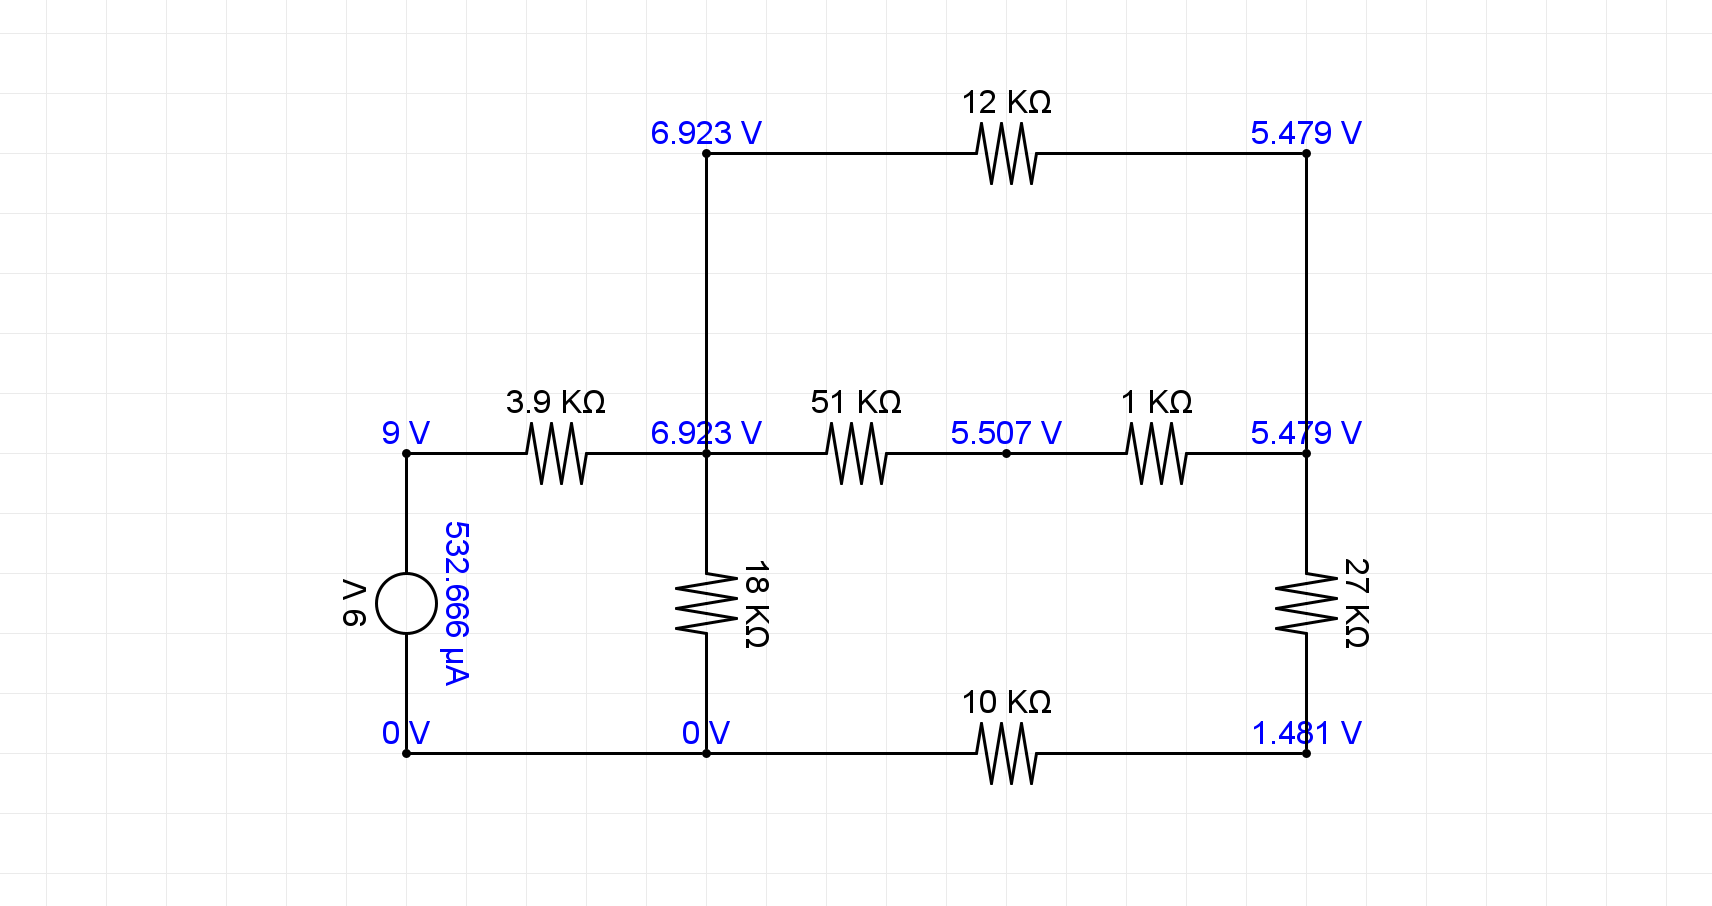
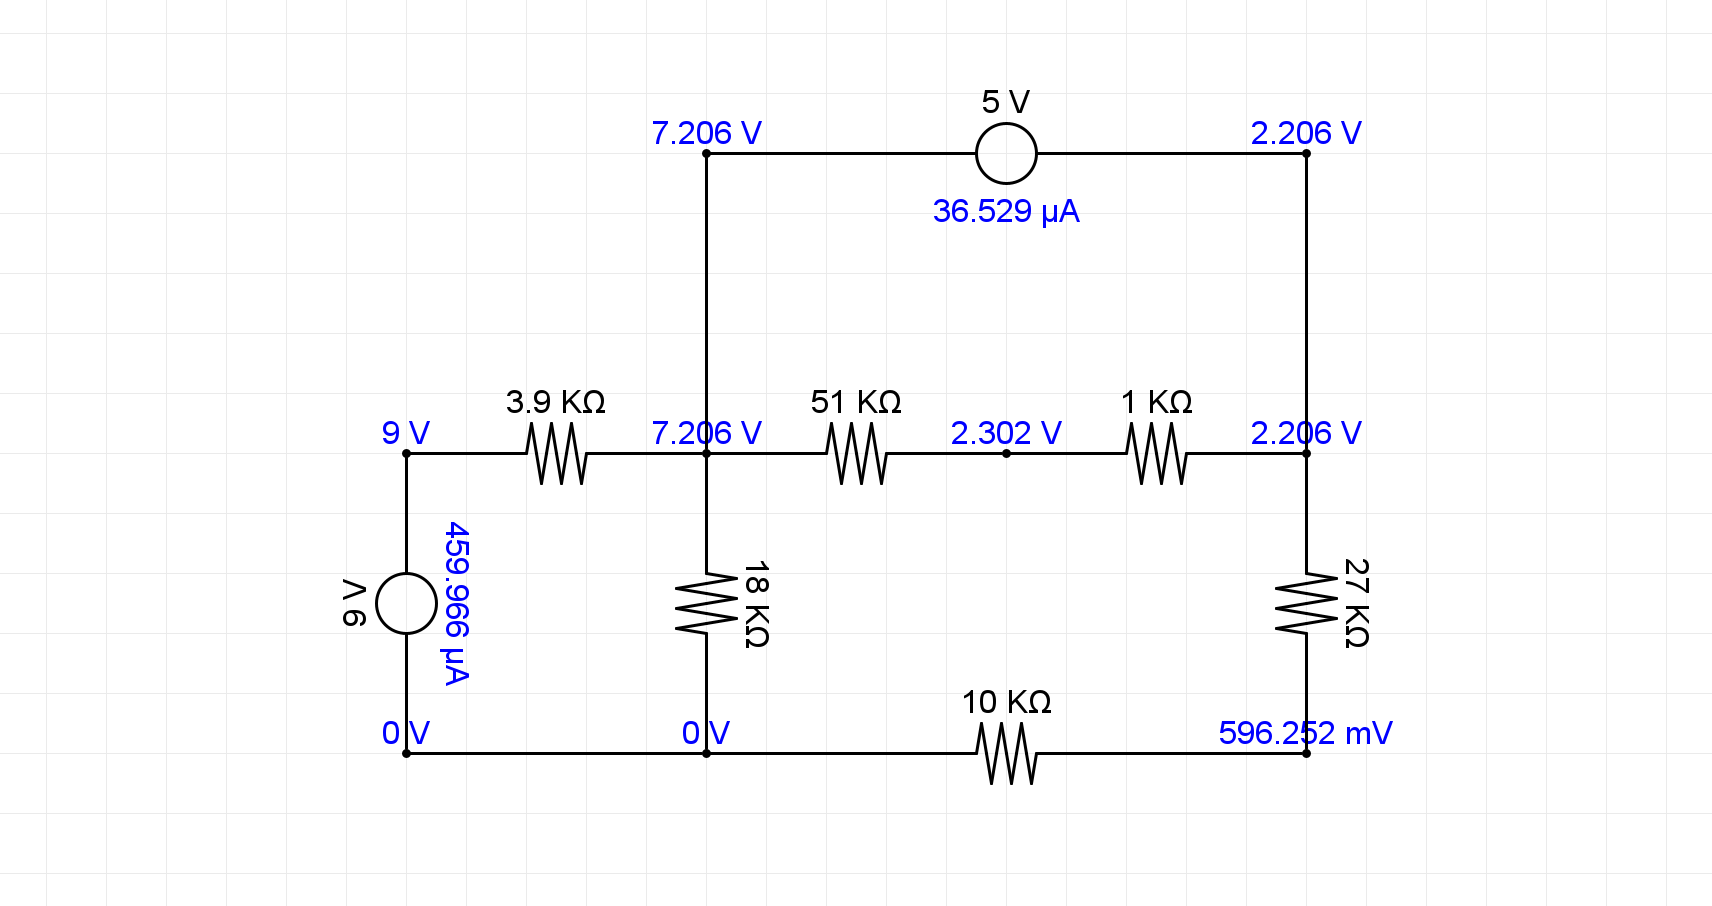
Implementar soporte para múltiples fuentes de voltaje independientes
- Eliminar corrienteTotal del circuito
- Asignar corrientes individuales a cada fuente tipo 'F'
- Ajustar asignación después de resolver MNA

diff --git a/src/PanelCircuito.java b/src/PanelCircuito.java
@@ -115,6 +115,11 @@ public class PanelCircuito extends JPanel {
         // Si ambos puntos coinciden, no dibujar nada
         if (inicioPlano.equals(finPlano)) return;
 
+        // Guardar el estado actual del contexto gráfico (color, trazo y transformación)
+        Color colorOriginal = g2.getColor();
+        Stroke trazoOriginal = g2.getStroke();
+        AffineTransform transformacionOriginal = g2.getTransform();
+
         // Suavizar líneas
         g2.setRenderingHint(RenderingHints.KEY_ANTIALIASING, RenderingHints.VALUE_ANTIALIAS_ON);
 
@@ -132,21 +137,28 @@ public class PanelCircuito extends JPanel {
         double xf = finPlano.x   - dx * factor;
         double yf = finPlano.y   - dy * factor;
 
-        // Guardar y aplicar nuevo estilo de trazo
-        Stroke trazoAntiguo = g2.getStroke();
+        // Aplicar nuevo estilo de trazo y color
         g2.setStroke(new BasicStroke(GROSOR_ARISTA, BasicStroke.CAP_ROUND, BasicStroke.JOIN_ROUND));
+        g2.setColor(Color.BLACK);
 
         // Dibujar la línea
         Line2D.Double linea = new Line2D.Double(xi, yi, xf, yf);
         g2.draw(linea);
 
-        // Restaurar trazo original
-        g2.setStroke(trazoAntiguo);
+        // Restaurar el estado original del contexto gráfico
+        g2.setColor(colorOriginal);
+        g2.setStroke(trazoOriginal);
+        g2.setTransform(transformacionOriginal);
     }
 
     public void dibujarResistencia(Graphics2D g2, Point inicioPlano, Point finPlano, ValorElectrico valorResistencia) {
         // Si ambos puntos coinciden, no hay resistencia que dibujar
         if (inicioPlano.equals(finPlano)) return;
+
+        // Guardar el estado actual del contexto gráfico (color, trazo y transformación)
+        Color colorOriginal = g2.getColor();
+        Stroke trazoOriginal = g2.getStroke();
+        AffineTransform transformacionOriginal = g2.getTransform();
 
         // Parámetros del zigzag
         final int ANCHO_ZIGZAG = 60;
@@ -177,11 +189,9 @@ public class PanelCircuito extends JPanel {
         double xg1 = xm + dx * factorGap;
         double yg1 = ym + dy * factorGap;
 
-        // Guardar estilo original
-        Stroke trazoOriginal = g2.getStroke();
-
         // Dibujar los brazos rectos de la resistencia
         g2.setStroke(new BasicStroke(GROSOR_ARISTA, BasicStroke.CAP_ROUND, BasicStroke.JOIN_ROUND));
+        g2.setColor(Color.BLACK);
         g2.draw(new Line2D.Double(x0, y0, xg0, yg0));
         g2.draw(new Line2D.Double(xg1, yg1, x1, y1));
 
@@ -213,12 +223,6 @@ public class PanelCircuito extends JPanel {
             haciaArriba = !haciaArriba;
         }
 
-        // Restaurar trazo para el texto
-        g2.setStroke(trazoOriginal);
-
-        // Guardar transformaciones y color original
-        AffineTransform atOriginal = g2.getTransform();
-
         // Dibujar etiqueta con valor formateado, centrada y rotada
         g2.translate(xm, ym);
         double angulo = Math.atan2(dy, dx);
@@ -231,15 +235,23 @@ public class PanelCircuito extends JPanel {
         int anchoTexto = fm.stringWidth(valorResistencia.toString());
 
         // Se dibuja un poco por encima del zigzag
+        g2.setColor(Color.BLACK);
         g2.drawString(valorResistencia.toString(), -anchoTexto / 2, -ALTURA_PICO - 10);
 
-        // Restaurar transformación y color
-        g2.setTransform(atOriginal);
+        // Restaurar el estado original del contexto gráfico
+        g2.setColor(colorOriginal);
+        g2.setStroke(trazoOriginal);
+        g2.setTransform(transformacionOriginal);
     }
 
-    public void dibujarFuente(Graphics2D g2, Point inicioPlano, Point finPlano, ValorElectrico valorFuente, ValorElectrico corrienteTotal) {
+    public void dibujarFuente(Graphics2D g2, Point inicioPlano, Point finPlano, ValorElectrico valorFuente, ValorElectrico corriente) {
         // Si ambos puntos coinciden, nada que dibujar
         if (inicioPlano.equals(finPlano)) return;
+
+        // Guardar el estado actual del contexto gráfico (color, trazo y transformación)
+        Color colorOriginal = g2.getColor();
+        Stroke trazoOriginal = g2.getStroke();
+        AffineTransform transformacionOriginal = g2.getTransform();
 
         // Activar antialiasing
         g2.setRenderingHint(RenderingHints.KEY_ANTIALIASING, RenderingHints.VALUE_ANTIALIAS_ON);
@@ -264,9 +276,6 @@ public class PanelCircuito extends JPanel {
         double xc = (x0 + x1) / 2.0;
         double yc = (y0 + y1) / 2.0;
 
-        // Guardar estilo de trazo original
-        Stroke trazoOriginal = g2.getStroke();
-
         // Dibujar líneas de conexión al círculo
         g2.setStroke(new BasicStroke(GROSOR_ARISTA, BasicStroke.CAP_ROUND, BasicStroke.JOIN_ROUND));
         g2.setColor(Color.BLACK);
@@ -283,12 +292,6 @@ public class PanelCircuito extends JPanel {
         double yCir = yc - radio;
         g2.draw(new Ellipse2D.Double(xCir, yCir, DIAMETRO_CIRCULO, DIAMETRO_CIRCULO));
 
-        // Restaurar trazo para no afectar otros dibujos
-        g2.setStroke(trazoOriginal);
-
-        // Guardar transformaciones y color original
-        AffineTransform atOriginal = g2.getTransform();
-
         // Preparar sistema de coordenadas rotado y centrado para etiquetas de valor y corriente
         g2.translate(xc, yc);
         double angulo = -Math.atan2(dy, dx);
@@ -302,20 +305,23 @@ public class PanelCircuito extends JPanel {
 
         // Dibujar texto valor fuente por encima del círculo
         int anchoTextoValor = fm.stringWidth(valorFuente.toString());
+        g2.setColor(Color.BLACK);
         g2.drawString(valorFuente.toString(), -anchoTextoValor / 2, (int)(-radio - 10));
 
         // Dibujar texto corriente total debajo del círculo
+        int anchoTextoCorriente = fm.stringWidth(corriente.toString());
         g2.setColor(Color.BLUE);
-        int anchoTextoCorriente = fm.stringWidth(corrienteTotal.toString());
         if (Math.abs(dy) < 1e-3) {
-            g2.drawString(corrienteTotal.toString(), -anchoTextoCorriente / 2, (int)(radio + altoTexto + 10));
+            g2.drawString(corriente.toString(), -anchoTextoCorriente / 2, (int)(radio + altoTexto + 10));
         } else {
             g2.rotate(Math.PI);
-            g2.drawString(corrienteTotal.toString(), -anchoTextoCorriente / 2, (int)(-radio - 10));
+            g2.drawString(corriente.toString(), -anchoTextoCorriente / 2, (int)(-radio - 10));
         }
 
-        // Restaurar transformaciones y color original
-        g2.setTransform(atOriginal);
+        // Restaurar el estado original del contexto gráfico
+        g2.setColor(colorOriginal);
+        g2.setStroke(trazoOriginal);
+        g2.setTransform(transformacionOriginal);
     }
 
     private void calcularPosicionesIniciales() {
@@ -374,7 +380,6 @@ public class PanelCircuito extends JPanel {
         }
 
         // Aplicar pan y zoom
-        AffineTransform atOriginal = g2.getTransform();
         g2.translate(xOffset, yOffset);
         g2.scale(escala, escala);
 
@@ -408,7 +413,6 @@ public class PanelCircuito extends JPanel {
         }
 
         // Dibujar componentes
-        g2.setColor(Color.BLACK);
         for (Componente componente : circuito.getComponentes()) {
             char tipo = componente.getElemento();
             Point pA = posicionesNodos.get(componente.getNodoA());
@@ -417,12 +421,9 @@ public class PanelCircuito extends JPanel {
             switch (tipo) {
                 case 'C' -> dibujarCable(g2, pA, pB);
                 case 'R' -> dibujarResistencia(g2, pA, pB, componente.getValor());
-                case 'F', 'I' -> dibujarFuente(g2, pA, pB, componente.getValor(), circuito.getCorrienteTotal());
+                case 'F' -> dibujarFuente(g2, pA, pB, componente.getValor(), componente.getCorriente());
                 default -> throw new IllegalArgumentException("Componente no reconocido: '" + tipo + "'");
             }
         }
-
-        // Restaurar transformada original
-        g2.setTransform(atOriginal);
     }
 }

diff --git a/src/Circuito.java b/src/Circuito.java
@@ -1,7 +1,6 @@
 import java.util.HashSet;
 import java.util.List;
 import java.util.Map;
-import java.util.Set;
 
 public class Circuito {
     private final List<Componente> componentes;
@@ -9,19 +8,17 @@ public class Circuito {
     private final Map<Nodo, Integer> mapaIndicesNodosCompletos;
     private final Map<Nodo, Integer> mapaIndicesNodosCanonicos;
     private final Map<Nodo, List<Nodo>> mapaAdyacencia;
-    private final ValorElectrico corrienteTotal;
     private final int numComponentes;
     private final int numNodosTotales;
     private final int numNodosCanonicos;
     private final int numFuentesVoltaje;
 
-    public Circuito(List<Componente> componentes, List<Nodo> nodos, Map<Nodo, Integer> mapaIndicesNodosCompletos, Map<Nodo, Integer> mapaIndicesNodosCanonicos, Map<Nodo, List<Nodo>> mapaAdyacencia, ValorElectrico corrienteTotal) {
+    public Circuito(List<Componente> componentes, List<Nodo> nodos, Map<Nodo, Integer> mapaIndicesNodosCompletos, Map<Nodo, Integer> mapaIndicesNodosCanonicos, Map<Nodo, List<Nodo>> mapaAdyacencia) {
         this.componentes = componentes;
         this.nodos = nodos;
         this.mapaIndicesNodosCompletos = mapaIndicesNodosCompletos;
         this.mapaIndicesNodosCanonicos = mapaIndicesNodosCanonicos;
         this.mapaAdyacencia = mapaAdyacencia;
-        this.corrienteTotal = corrienteTotal;
         this.numComponentes = calcularNumComponentes();
         this.numNodosTotales = calcularNumNodosTotales();
         this.numNodosCanonicos = calcularNumNodosCanonicos();
@@ -64,10 +61,6 @@ public class Circuito {
         return numFuentesVoltaje;
     }
 
-    public ValorElectrico getCorrienteTotal() {
-        return corrienteTotal;
-    }
-
     private int calcularNumComponentes() {
         return (int) componentes.stream().filter(componente -> componente.getElemento() != 'C').count();
     }
@@ -81,8 +74,6 @@ public class Circuito {
     }
 
     private int calcularNumFuentes() {
-        Set<Character> tiposDeFuente = Set.of('F', 'I');
-
-        return (int) componentes.stream().filter(componente -> tiposDeFuente.contains(componente.getElemento())).count();
+        return (int) componentes.stream().filter(componente -> componente.getElemento() == 'F').count();
     }
 }

diff --git a/src/Prueba.java b/src/Prueba.java
@@ -41,9 +41,11 @@ public class Prueba {
         }
 
         System.out.println("\n===============================");
-        System.out.println("       Corriente Total");
+        System.out.println("     CORRIENTES DE FUENTES");
         System.out.println("===============================");
-        System.out.println(circuito.getCorrienteTotal());
+        for (Componente componente : circuito.getComponentes()) {
+            if (componente.getElemento() == 'F') System.out.printf("Fuente (%s): %s\n", componente.getValor(), componente.getCorriente());
+        }
 
         System.out.println("\n===============================");
         System.out.println(" DISTANCIA DESDE CADA NODO HASTA TIERRA, SIGUIENDO CAÍDA DE VOLTAJE");
@@ -52,7 +54,7 @@ public class Prueba {
         for (Nodo nodo : circuito.getNodos()) {
             int distancia = LayoutCircuito.calcularDistanciaVoltaje(circuito.getNodos(), circuito.getMapaIndicesNodosCompletos(), circuito.getMapaAdyacencia(), nodo);
             int indice = circuito.getNodos().indexOf(nodo);
-            System.out.printf("Nodo %d | Voltaje: %-7s | Distancia a tierra: %d\n", indice, nodo.getValor(), distancia);
+            System.out.printf("Nodo %d | Voltaje: %-11s | Distancia a tierra: %d\n", indice, nodo.getValor(), distancia);
         }
     }
 }

diff --git a/src/MNA.java b/src/MNA.java
@@ -48,9 +48,6 @@ public class MNA {
                 }
                 matrizMNA[filaFuente][tamano] = valor;
                 filaFuente++;
-            } else if (elemento == 'I') {
-                if (i != indiceNodosTierra) matrizMNA[i][tamano] -= valor;
-                if (j != indiceNodosTierra) matrizMNA[j][tamano] += valor;
             }
         }
 
@@ -130,9 +127,16 @@ public class MNA {
         }
     }
 
-    public static void asignarCorrienteTotalCircuito(Circuito circuito, double[] soluciones) {
-        int ultimaColumna = soluciones.length - 1;
-        circuito.getCorrienteTotal().setNumero(soluciones[ultimaColumna] * -1.0);
+    public static void asignarCorrientesFuentes(Circuito circuito, double[] soluciones) {
+        int numNodosSinTierra = circuito.getNumNodosCanonicos() - 1;
+        int contadorFuentes = 0;
+        for (Componente componente : circuito.getComponentes()) {
+            if (componente.getElemento() == 'F') {
+                double corrienteFuente = soluciones[numNodosSinTierra + contadorFuentes] * -1.0;
+                componente.getCorriente().setNumero(corrienteFuente);
+                contadorFuentes++;
+            }
+        }
     }
 
     private static void intercambiarFilas(double[][] matrizMNA, int fila1, int fila2) {

diff --git a/src/CircuitoParser.java b/src/CircuitoParser.java
@@ -23,7 +23,7 @@ public class CircuitoParser {
 
             // Procesamiento parte 0
             char elemento = partes[0].charAt(0);
-            Set<Character> tiposValidos = Set.of('R', 'C', 'F', 'I');
+            Set<Character> tiposValidos = Set.of('C', 'R', 'F');
             if (!tiposValidos.contains(elemento)) throw new IllegalArgumentException("Tipo de componente desconocido '" + elemento + "' en línea: '" + lineaOriginal + "'");
 
             // Procesamiento parte 1
@@ -86,11 +86,7 @@ public class CircuitoParser {
             nodo.getValor().setSufijo('V');
         }
 
-        // Asignar sufijo a corriente total
-        ValorElectrico corrienteTotal = new ValorElectrico();
-        corrienteTotal.setSufijo('A');
-
-        return new Circuito(listaComponentes, listaNodos, mapaIndicesNodosTotales, mapaIndicesNodosCanonicos, mapaAdyacencia, corrienteTotal);
+        return new Circuito(listaComponentes, listaNodos, mapaIndicesNodosTotales, mapaIndicesNodosCanonicos, mapaAdyacencia);
     }
 
     private static void insertarOrdenado(String nombre, Nodo nodo, Map<String, Nodo> mapaNodos, List<Nodo> listaNodos) {

diff --git a/src/Componente.java b/src/Componente.java
@@ -3,12 +3,19 @@ public class Componente {
     private Nodo nodoA;
     private Nodo nodoB;
     private ValorElectrico valor;
+    private ValorElectrico corriente;
 
     public Componente(char elemento, Nodo nodoA, Nodo nodoB, ValorElectrico valor) {
         this.elemento = elemento;
         this.nodoA = nodoA;
         this.nodoB = nodoB;
         this.valor = valor;
+        if (elemento == 'F') {
+            this.corriente = new ValorElectrico();
+            this.corriente.setSufijo('A');
+        } else {
+            this.corriente = null;
+        }
     }
 
     public Componente(char elemento, Nodo nodoA, Nodo nodoB) {
@@ -29,5 +36,9 @@ public class Componente {
 
     public ValorElectrico getValor() {
         return valor;
+    }
+
+    public ValorElectrico getCorriente() {
+        return corriente;
     }
 }

diff --git a/src/Main.java b/src/Main.java
@@ -41,7 +41,7 @@ public class Main extends JFrame {
                     double[][] matrizMNA = MNA.generarMatriz(circuito);
                     double[] solucion = MNA.resolverMatriz(matrizMNA);
                     MNA.asignarVoltajesNodos(circuito, solucion);
-                    MNA.asignarCorrienteTotalCircuito(circuito, solucion);
+                    MNA.asignarCorrientesFuentes(circuito, solucion);
 
                     // DEBUG
                     Prueba.unitaria(circuito, matrizMNA, solucion);

diff --git a/README.md b/README.md
@@ -70,12 +70,12 @@ R 1 2 3.9KΩ
 C 2 2B 0
 R 2 3 51KΩ
 R 2 0 18KΩ
-R 2B 4 12KΩ
 R 3 4B 1KΩ
 R 0 5 10KΩ
 C 4 4B 0
 R 4B 5 27KΩ
 C 0 0B 0
+F 2B 4 5V
 F 1 0B 9V
 ```
 
